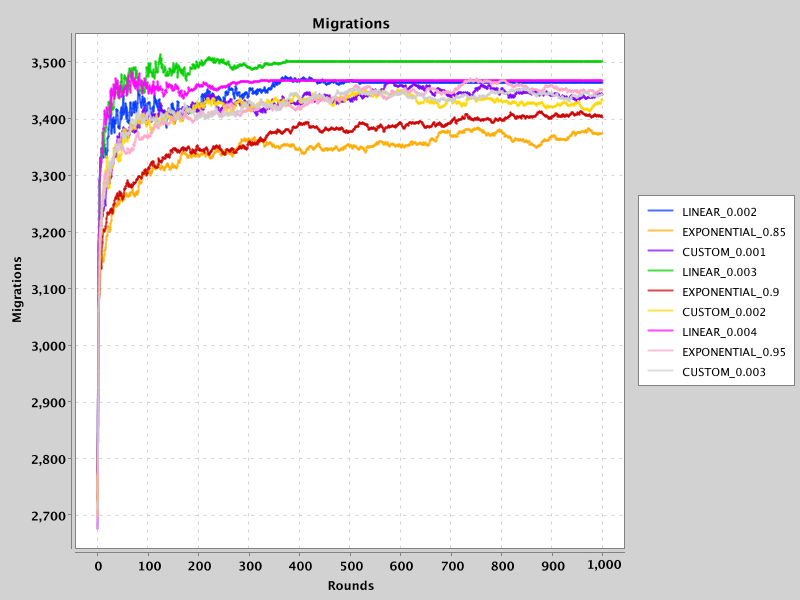
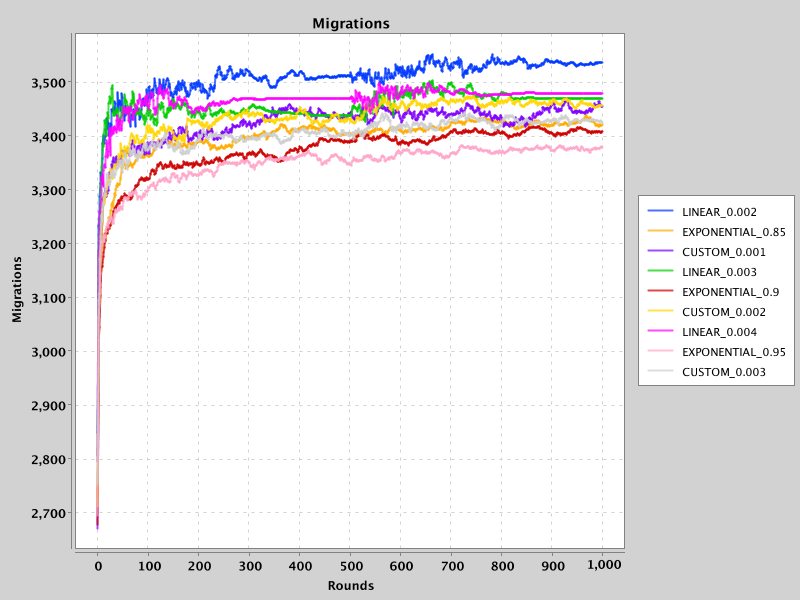
implement restarting

diff --git a/src/main/java/se/kth/jabeja/io/CLI.java b/src/main/java/se/kth/jabeja/io/CLI.java
@@ -32,6 +32,9 @@ public class CLI {
   @Option(name = "-temp", usage = "Simulated annealing temperature.")
   private double TEMPERATURE = 2;
 
+  @Option(name = "-restart-at", usage = "Restart simulated annealing temperature at this round.")
+  private int RESTART_AT = -1;
+
   @Option(name = "-delta", usage = "Simulated annealing delta.")
   private double DELTA = 0.003;
 
@@ -115,6 +118,7 @@ public class CLI {
             .setGraphInitialColorPolicy(graphInitColorSelectionPolicy)
             .setOutputDir(OUTPUT_DIR)
             .setAlpha(ALPHA)
+            .setRestartAtRound(RESTART_AT)
             .setAnnealingType(annealingType);
   }
 }

diff --git a/src/main/java/se/kth/jabeja/Jabeja.java b/src/main/java/se/kth/jabeja/Jabeja.java
@@ -74,6 +74,11 @@ public class Jabeja {
       //reduce the temperature
       saCoolDown();
 
+      // restart temparature at given round
+      if (round == this.config.getRestartAtRound()) {
+        this.T = config.getAnnealingType() == LINEAR ? config.getTemperature() : 1.0;
+      }
+
 
       // Update stats and redraw graph
       report();

diff --git a/src/main/java/se/kth/jabeja/Main.java b/src/main/java/se/kth/jabeja/Main.java
@@ -74,8 +74,6 @@ public class Main {
         newConfig.setDelta(delta);
         newConfig.setAlpha(alpha);
 
-        System.out.println(config.getRestartAtRound());
-
         Jabeja host = new Jabeja(graph, newConfig, chartIdx);
         this.realtimeCharts.add(host.getRealtime());
 

diff --git a/src/main/java/se/kth/jabeja/config/Config.java b/src/main/java/se/kth/jabeja/config/Config.java
@@ -180,7 +180,7 @@ public class Config {
     return annealingType;
   }
 
-  public Config getRestartAtRound() {
+  public Integer getRestartAtRound() {
     return this.restartAtRound;
   }
 
